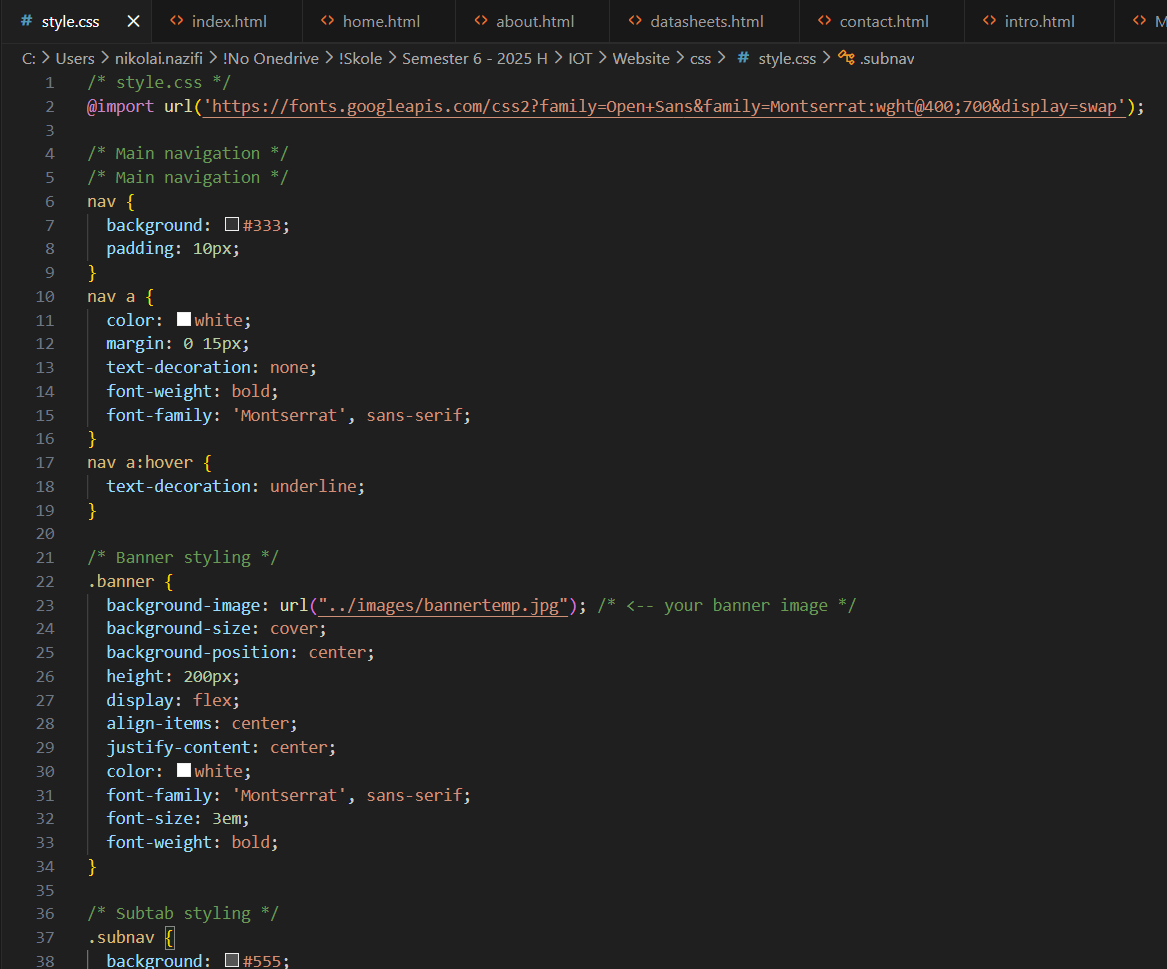
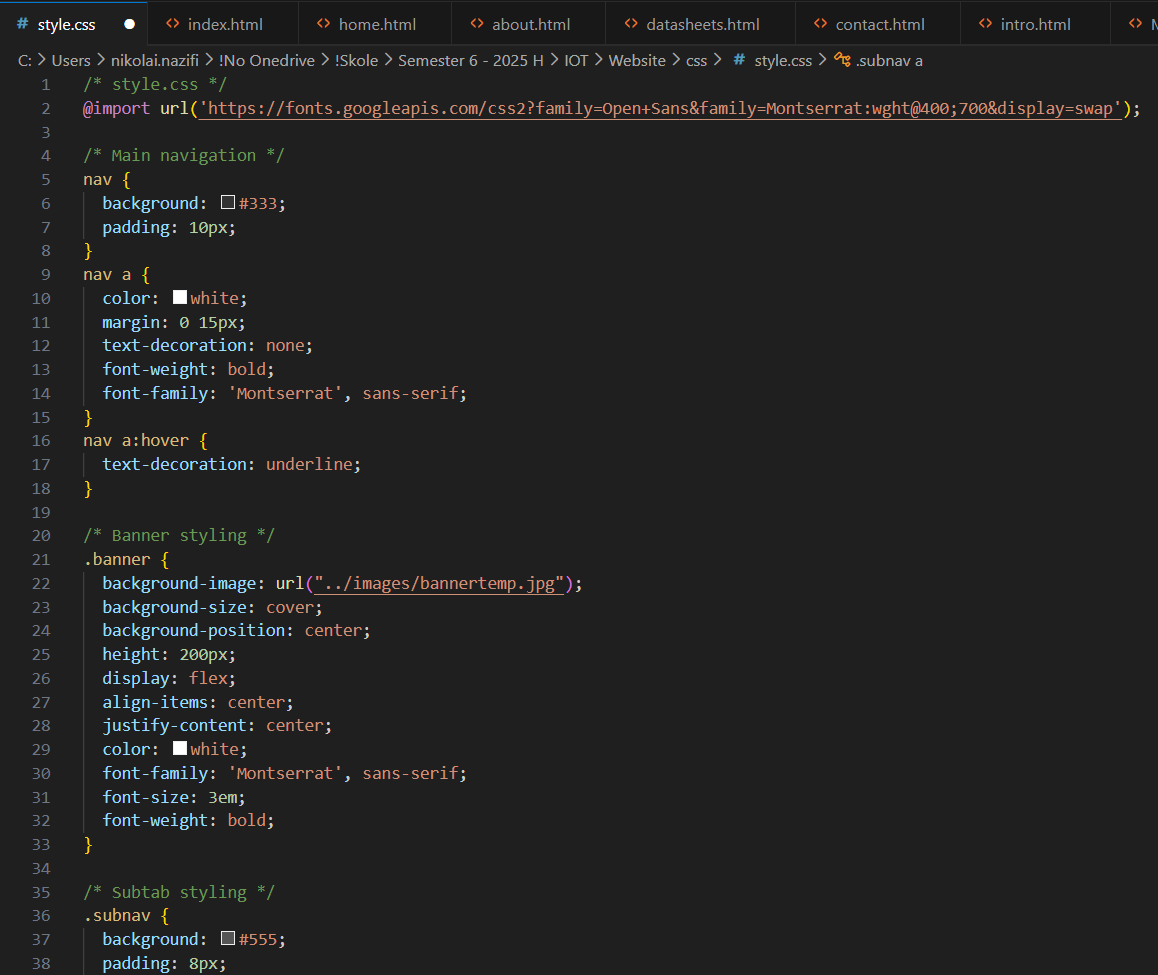
Some pages did not work

diff --git a/html/home.html b/html/home.html
@@ -46,10 +46,9 @@
     The controller uses a PI-regulator to control a heating element to maintain a desired temperature in a room. All the data measured and calculated is stored both in a local database
     on a local server and sent to a cloud database for remote access.
   </p>
+  <h1 style="text-align:center;">Start exploring the system by going through this website</h1>
 <footer>
   <p>Created and designed by Nikolai Nazifi - 30.11.2025</p>
 </footer>
-
-<h1 style="text-align:center;">Start exploring the system by going through this website</h1>
 </body>
 </html>

diff --git a/css/style.css b/css/style.css
@@ -2,7 +2,6 @@
 @import url('https://fonts.googleapis.com/css2?family=Open+Sans&family=Montserrat:wght@400;700&display=swap');
 
 /* Main navigation */
-/* Main navigation */
 nav {
   background: #333;
   padding: 10px;
@@ -20,7 +19,7 @@ nav a:hover {
 
 /* Banner styling */
 .banner {
-  background-image: url("../images/bannertemp.jpg"); /* <-- your banner image */
+  background-image: url("../images/bannertemp.jpg");
   background-size: cover;
   background-position: center;
   height: 200px;
